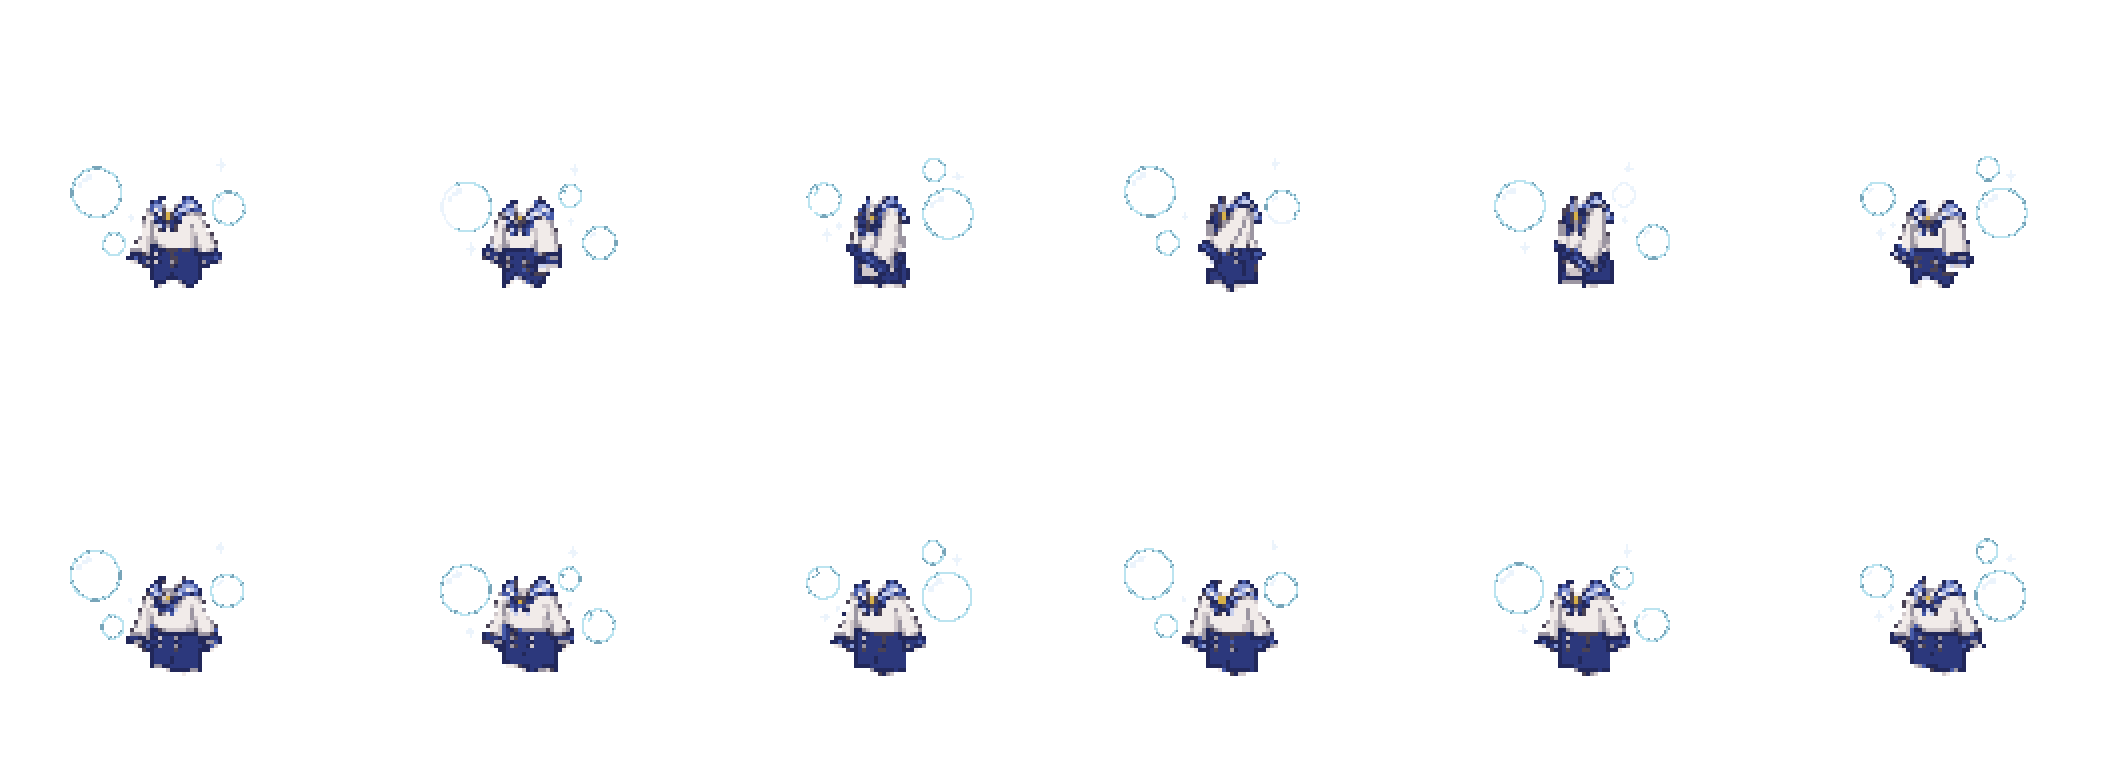
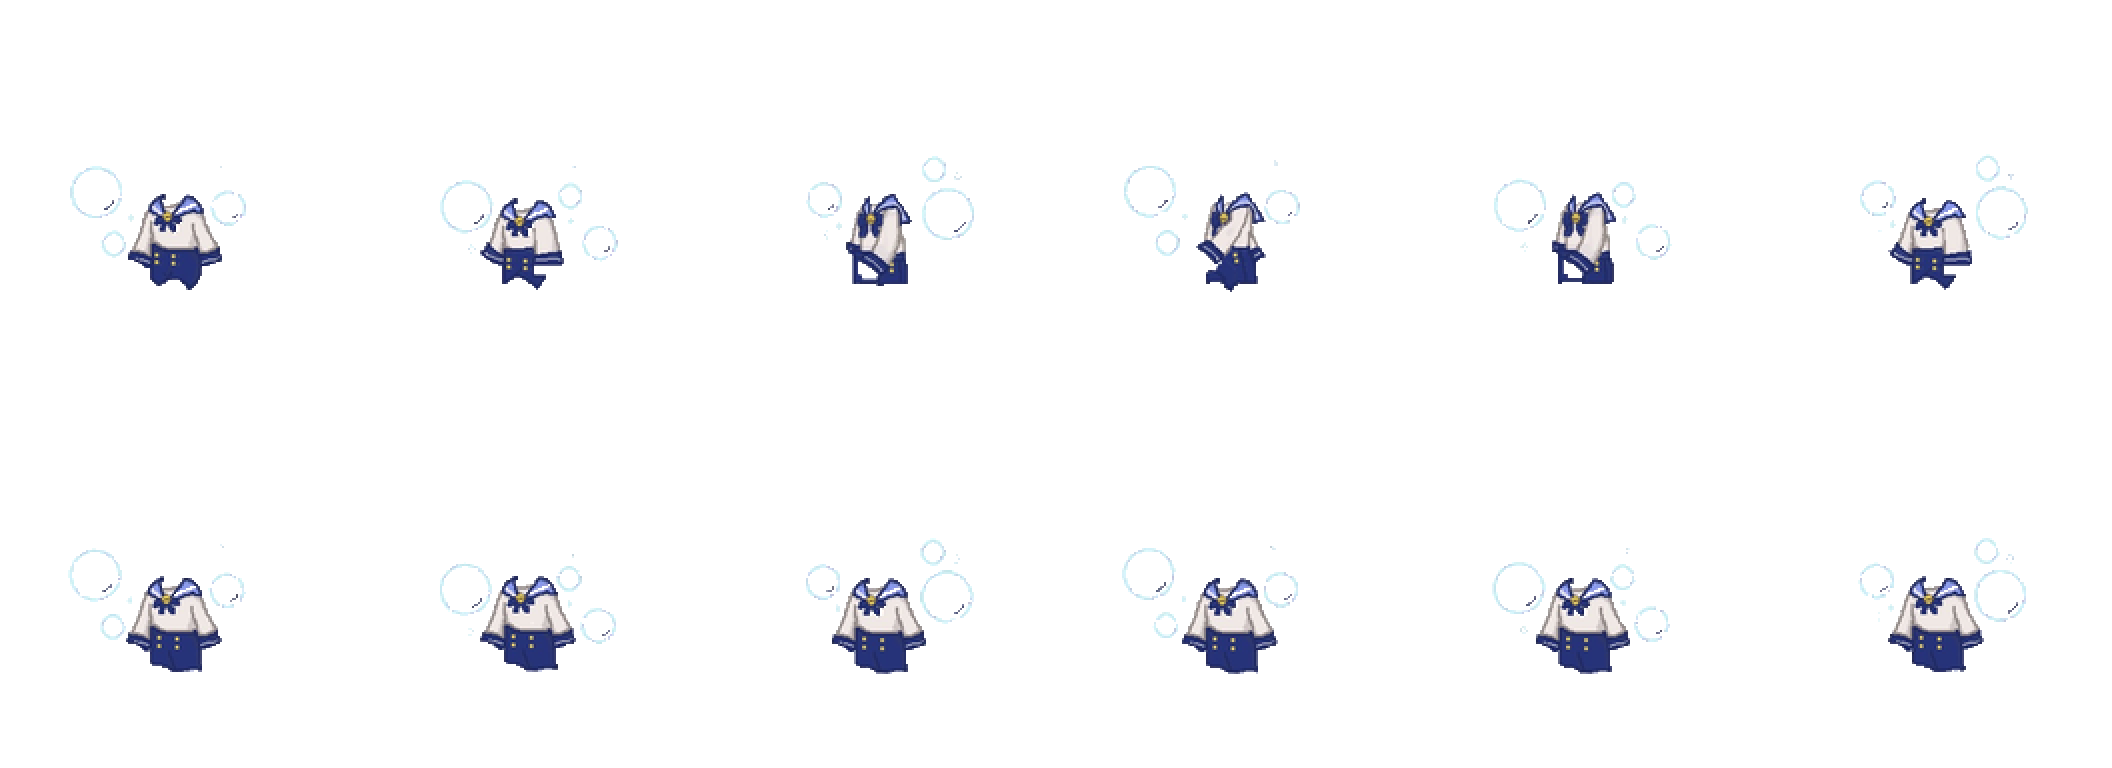
세일러복 — 새 그림으로 바꾸고 이름을 세일러복으로
Claude-Session: https://claude.ai/code/session_01756qBPpCuB22evHBmdXYTY

diff --git a/closet.js b/closet.js
@@ -203,7 +203,7 @@ const DOT = {
                  // ★ 사운드 코트 — 서기 줄 두 칸에 자락이 흔들린다 (그림자도 같이 돈다 · 두 칸이 같은 그림이라 티는 안 난다)
                  //   사운드 레빗 헤드셋 — 서기 줄 여섯 칸에 귀가 흔들린다 (2026-10-23)
                  'sound-coat': [0, 1], 'sound-coat-in': [0, 1], 'sound-headset': [0, 1, 2, 3, 4, 5],
-                 // 비눗방울 세일러 (2026-11-02) — 서기 줄 여섯 칸에 비눗방울 · 반짝이가 떠다닌다
+                 // 세일러복 (2026-11-02) — 서기 줄 여섯 칸에 비눗방울 · 반짝이가 떠다닌다
                  'sailor-bubble': [0, 1, 2, 3, 4, 5],
                  // LP 판 — 서기 줄 여섯 칸에 판이 돈다 (2026-10-23)
                  'sound-lp': [0, 1, 2, 3, 4, 5],
@@ -379,11 +379,12 @@ const DOT_SLOTS = [
             //   칸마다 가로 +30 으로 352 칸에 옮겼다. 걷기 줄은 네 칸만 와서 5·6번째를 3·2번째로 채웠다.
             //   서기 줄은 한 칸 — 0 에 세운다. 겹 차례는 맨 위 (D.Z 끝) — 겉옷 · 장갑까지 덮는다.
             { i: 'bungeo', n: '붕어빵 의상', over: ['bungeo'], own: 'bungeo' },
-            // ★ 비눗방울 세일러 (2026-11-02 · 의상 뽑기 S) — 세일러 윗옷 · 반바지에 비눗방울이 떠다니는 한 벌.
-            //   주신 그림은 1440x640 JPG (칸 240x320 · 검은 바탕) — 1728x768 로 늘려 칸마다 가로 +30 으로 352 칸에 옮기고,
-            //   4픽셀 도트마다 가운데 색을 떠서 살색(몸) · 바탕을 걷고 옷은 열 가지 색으로 모았다. 비눗방울 · 반짝이는 2픽셀로 따로 떴다.
-            //   서기 줄 여섯 칸에 방울이 움직여 여섯 칸을 돈다 (FLAP_COLS). 이름은 그림을 보고 붙였다.
-            { i: 'sailor', n: '비눗방울 세일러', over: ['sailor-bubble'], own: 'sailor-bubble' },
+            // ★ 세일러복 (2026-11-02 · 의상 뽑기 S) — 세일러 윗옷 · 반바지에 비눗방울이 떠다니는 한 벌.
+            //   같은 날 옷만 그린 그림으로 바꿔 주셨다 — 2160x960 JPG (칸 360x480 · 흰 바탕 · 지난 규격 1728x768 의 1.25 배).
+            //   1728x768 로 줄여 칸마다 가로 +30 으로 352 칸에 옮겼다 (몸에 대 보니 어깨 · 다리가 그대로 맞았다).
+            //   흰 바탕과 그 바탕에 이어진 옅은 지우개 자국을 걷고, 줄이기 전에 바탕 자리를 옆 옷 색으로 채워 흰 테가 안 남게 했다.
+            //   서기 줄 여섯 칸에 방울이 움직여 여섯 칸을 돈다 (FLAP_COLS). 이름은 정해 주신 것 (처음엔 「비눗방울 세일러」 · 열쇠는 그대로).
+            { i: 'sailor', n: '세일러복', over: ['sailor-bubble'], own: 'sailor-bubble' },
             // ★ 의상 뽑기 탈 세 벌 + 퐁실 의상 (2026-10-25) — 주신 그림은 432x192 (칸 72x96) 라
             //   네 배로 늘려 칸마다 가로 +30 으로 352 칸에 옮겼다 (다섯 벌 · 2026-10-23 과 같은 길).
             //   탈 셋은 머리까지 감싸고 얼굴만 뚫려 있어 **머리 위**(top)에 얹는다 — 늑대 잠옷 바깥과 같다.

diff --git a/gacha.js b/gacha.js
@@ -73,8 +73,8 @@ const GACHA_WEAR = [
     { k: 'dress',       n: '드레스',     g: 'S', s: ['dress'],       set: 1 },
     { k: 'tuxedo',      n: '턱시도',     g: 'S', s: ['tuxedo'],      set: 1 },
     { k: 'veil',        n: '면사포',     g: 'S', s: ['veil'],        set: 1 },
-    // 비눗방울 세일러 (2026-11-02 사용자 · S) — 이름은 그림을 보고 붙였다
-    { k: 'sailor-bubble', n: '비눗방울 세일러', g: 'S', s: ['sailor-bubble'] },
+    // 세일러복 (2026-11-02 사용자 · S · 이름도 정해 주셨다 — 처음엔 「비눗방울 세일러」 · 열쇠는 그대로)
+    { k: 'sailor-bubble', n: '세일러복', g: 'S', s: ['sailor-bubble'] },
     { k: 'cape',        n: '하얀 망토',  g: 'A', s: ['cape'] },
     { k: 'han-inner',   n: '내의',       g: 'A', s: ['han-inner'] },
     { k: 'brown-suit',  n: '브라운 정장', g: 'A', s: ['brown-suit'] },
